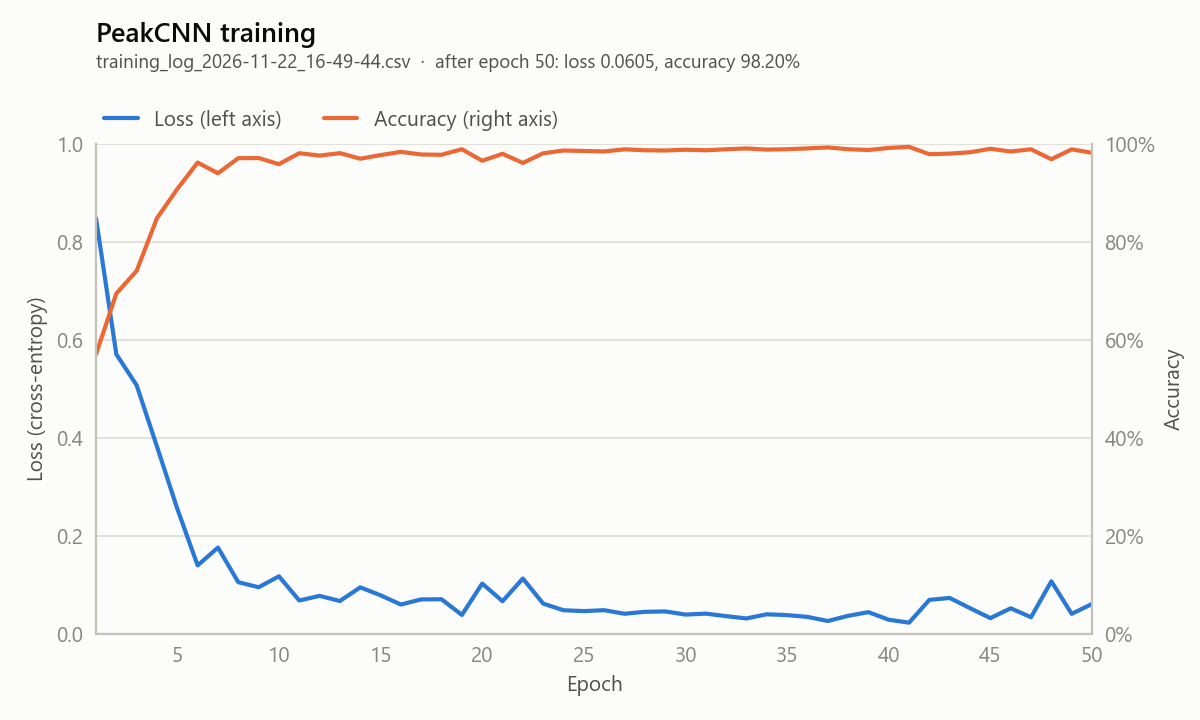
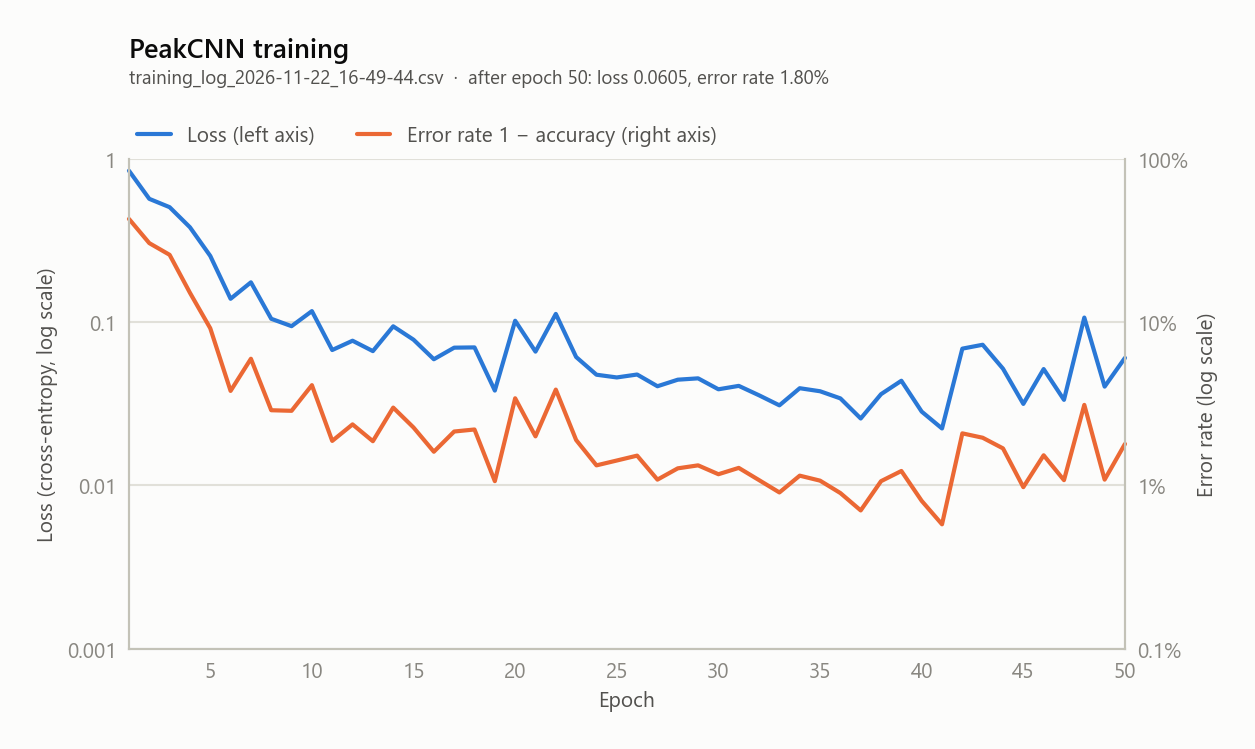
Plot loss and error rate on log scales
The training chart now shows ln(loss) and ln(1 - accuracy) as log-scale
axes with the original values as ticks. Epochs with 100% accuracy are
clamped to one error. Redraws the first run's chart in the new style.

Changed region(s): [[0.0, 0.1528, 0.9867, 0.9778], [0.0617, 0.0306, 0.6783, 0.1222], [0.0617, 0.1833, 0.0925, 0.2139]]

diff --git a/plot.py b/plot.py
@@ -1,5 +1,5 @@
 # Generated by Claude (Claude Code).
-"""Chart of a PeakCount training log: loss and accuracy per epoch in one chart.
+"""Chart of a PeakCount training log: loss and error rate (1 - accuracy) per epoch, on log scales.
 
 Used by train.py after training; not meant to be run on its own.
 """
@@ -8,8 +8,9 @@ import csv
 import math
 from pathlib import Path
 
+from matplotlib import rc_context
 from matplotlib.figure import Figure
-from matplotlib.ticker import MaxNLocator, PercentFormatter
+from matplotlib.ticker import FuncFormatter, LogLocator, MaxNLocator, NullFormatter
 
 SURFACE = "#fcfcfb"
 TEXT_PRIMARY = "#0b0b0b"
@@ -17,8 +18,8 @@ TEXT_SECONDARY = "#52514e"
 TEXT_MUTED = "#898781"
 GRIDLINE = "#e1e0d9"
 AXIS = "#c3c2b7"
-LOSS_COLOR = "#2a78d6"      # categorical slot 1 (blue)
-ACCURACY_COLOR = "#eb6834"  # categorical slot 2 (orange)
+LOSS_COLOR = "#2a78d6"   # categorical slot 1 (blue)
+ERROR_COLOR = "#eb6834"  # categorical slot 2 (orange)
 
 RC = {
     "font.family": ["Segoe UI", "DejaVu Sans"],
@@ -26,17 +27,31 @@ RC = {
 }
 
 
-def nice_axis_top(value: float) -> float:
-    """Smallest 'nice' top (1, 1.25, 2.5, 5 x 10^k) >= value, so that top / 5 is a clean tick step."""
-    scale = 10.0 ** math.floor(math.log10(value))
-    for factor in (1.0, 1.25, 2.5, 5.0, 10.0):
-        if factor * scale >= value:
-            return factor * scale
-    return 10.0 * scale
+def decade_range(values: list[float]) -> tuple[int, int]:
+    """Exponents (lo, hi) of the powers of 10 enclosing all values, at least one decade apart."""
+    lo = math.floor(math.log10(min(values)))
+    hi = math.ceil(math.log10(max(values)))
+    return lo, max(hi, lo + 1)
+
+
+def plain_decimal(value: float, _pos=None) -> str:
+    """Format a power of ten without exponent notation: 1, 0.1, 0.00001."""
+    decimals = max(0, -math.floor(math.log10(value) + 1e-9))
+    return f"{value:.{decimals}f}"
+
+
+def plain_percent(value: float, _pos=None) -> str:
+    """Format a fraction that is a power of ten as a percentage: 100%, 1%, 0.001%."""
+    return plain_decimal(100 * value) + "%"
 
 
 def plot_training_log(csv_path: Path) -> Path:
-    """Draw the training log at csv_path and save it as a PNG next to it; return the PNG path."""
+    """Draw the training log at csv_path and save it as a PNG next to it; return the PNG path.
+
+    Both y-axes are logarithmic and show the original values. An epoch with 100%
+    accuracy would have error rate 0 (ln 0 = -inf); its error rate is clamped to
+    1/n, the rate of a single mistake among that epoch's n functions.
+    """
     csv_path = Path(csv_path)
     with open(csv_path, newline="") as f:
         rows = list(csv.DictReader(f))
@@ -45,57 +60,73 @@ def plot_training_log(csv_path: Path) -> Path:
 
     epochs = [int(r["epoch"]) for r in rows]
     loss = [float(r["loss"]) for r in rows]
-    accuracy = [100 * float(r["accuracy"]) for r in rows]
+    seen = [int(r["functions_seen"]) for r in rows]
+    per_epoch = [s - prev for s, prev in zip(seen, [0] + seen[:-1])]
+    raw_error = [1.0 - float(r["accuracy"]) for r in rows]
+    error = [max(e, 1.0 / n) for e, n in zip(raw_error, per_epoch)]
+    clamped = sum(e < 1.0 / n for e, n in zip(raw_error, per_epoch))
     marker = "o" if len(rows) == 1 else None
 
-    from matplotlib import rc_context
+    # Give both axes the same number of decades, so their decade ticks share gridlines.
+    loss_lo, loss_hi = decade_range(loss)
+    err_lo, err_hi = decade_range(error)
+    decades = max(loss_hi - loss_lo, err_hi - err_lo)
+    loss_lo, err_lo = loss_hi - decades, err_hi - decades
 
     with rc_context(RC):
         fig = Figure(figsize=(8, 4.8), dpi=150, facecolor=SURFACE)
         ax_loss = fig.add_subplot()
-        ax_acc = ax_loss.twinx()
+        ax_err = ax_loss.twinx()
         ax_loss.set_facecolor(SURFACE)
 
-        (loss_line,) = ax_loss.plot(epochs, loss, color=LOSS_COLOR, linewidth=2,
-                                    solid_capstyle="round", solid_joinstyle="round",
-                                    marker=marker, label="Loss (left axis)")
-        (acc_line,) = ax_acc.plot(epochs, accuracy, color=ACCURACY_COLOR, linewidth=2,
-                                  solid_capstyle="round", solid_joinstyle="round",
-                                  marker=marker, label="Accuracy (right axis)")
+        # clip_on=False: values exactly on a power of ten at the axis edge stay fully visible.
+        line_style = dict(linewidth=2, solid_capstyle="round", solid_joinstyle="round",
+                          marker=marker, clip_on=False)
+        (loss_line,) = ax_loss.plot(epochs, loss, color=LOSS_COLOR,
+                                    label="Loss (left axis)", **line_style)
+        (err_line,) = ax_err.plot(epochs, error, color=ERROR_COLOR,
+                                  label="Error rate 1 − accuracy (right axis)", **line_style)
 
-        ax_loss.set_xlim(epochs[0] - 0.5 if len(epochs) == 1 else epochs[0],
-                         epochs[-1] + 0.5 if len(epochs) == 1 else epochs[-1])
-        ax_loss.xaxis.set_major_locator(MaxNLocator(integer=True))
-        # Both axes get 5 equal intervals, so the accuracy ticks sit on the loss gridlines.
-        loss_top = nice_axis_top(max(loss) * 1.02)
-        ax_loss.set_ylim(0, loss_top)
-        ax_loss.set_yticks([loss_top * i / 5 for i in range(6)])
-        ax_acc.set_ylim(0, 100)
-        ax_acc.set_yticks(range(0, 101, 20))
-        ax_acc.yaxis.set_major_formatter(PercentFormatter(decimals=0))
+        if len(epochs) == 1:
+            ax_loss.set_xlim(epochs[0] - 0.5, epochs[0] + 0.5)
+            ax_loss.set_xticks(epochs)
+        else:
+            ax_loss.set_xlim(epochs[0], epochs[-1])
+            ax_loss.xaxis.set_major_locator(MaxNLocator(integer=True))
+
+        for ax, lo, hi, fmt in (
+            (ax_loss, loss_lo, loss_hi, plain_decimal),
+            (ax_err, err_lo, err_hi, plain_percent),
+        ):
+            ax.set_yscale("log")
+            ax.set_ylim(10.0**lo, 10.0**hi)
+            ax.yaxis.set_major_locator(LogLocator(base=10, numticks=decades + 2))
+            ax.yaxis.set_major_formatter(FuncFormatter(fmt))
+            ax.yaxis.set_minor_formatter(NullFormatter())
 
         ax_loss.set_xlabel("Epoch", color=TEXT_SECONDARY)
-        ax_loss.set_ylabel("Loss (cross-entropy)", color=TEXT_SECONDARY)
-        ax_acc.set_ylabel("Accuracy", color=TEXT_SECONDARY)
+        ax_loss.set_ylabel("Loss (cross-entropy, log scale)", color=TEXT_SECONDARY)
+        ax_err.set_ylabel("Error rate (log scale)", color=TEXT_SECONDARY)
 
         # Gridlines from the loss axis only, so the two scales don't draw two grids.
-        ax_loss.grid(axis="y", color=GRIDLINE, linewidth=1)
+        ax_loss.grid(axis="y", which="major", color=GRIDLINE, linewidth=1)
         ax_loss.set_axisbelow(True)
 
-        for ax in (ax_loss, ax_acc):
+        for ax in (ax_loss, ax_err):
             ax.spines["top"].set_visible(False)
             for side in ("left", "right", "bottom"):
                 ax.spines[side].set_color(AXIS)
                 ax.spines[side].set_linewidth(1)
-            ax.tick_params(colors=AXIS, labelcolor=TEXT_MUTED, length=0, pad=6)
+            ax.tick_params(which="both", colors=AXIS, labelcolor=TEXT_MUTED, length=0, pad=6)
 
+        subtitle = (f"{csv_path.name}  ·  after epoch {epochs[-1]}: "
+                    f"loss {loss[-1]:.4f}, error rate {100 * raw_error[-1]:.2f}%")
+        if clamped:
+            subtitle += f"  ·  {clamped} epoch(s) at 100% accuracy shown as 1 error"
         fig.suptitle("PeakCNN training", x=0.08, y=0.97, ha="left",
                      fontsize=13, fontweight="semibold", color=TEXT_PRIMARY)
-        fig.text(0.08, 0.905,
-                 f"{csv_path.name}  ·  after epoch {epochs[-1]}: "
-                 f"loss {loss[-1]:.4f}, accuracy {accuracy[-1]:.2f}%",
-                 ha="left", fontsize=9, color=TEXT_SECONDARY)
-        legend = ax_loss.legend(handles=[loss_line, acc_line], loc="lower left",
+        fig.text(0.08, 0.905, subtitle, ha="left", fontsize=9, color=TEXT_SECONDARY)
+        legend = ax_loss.legend(handles=[loss_line, err_line], loc="lower left",
                                 bbox_to_anchor=(0, 1.01), ncol=2, frameon=False,
                                 borderaxespad=0, handlelength=1.6)
         for text in legend.get_texts():
@@ -103,5 +134,6 @@ def plot_training_log(csv_path: Path) -> Path:
 
         fig.subplots_adjust(left=0.08, right=0.91, top=0.8, bottom=0.12)
         png_path = csv_path.with_suffix(".png")
-        fig.savefig(png_path, facecolor=SURFACE)
+        # bbox_inches="tight" grows the margins if long tick labels would be cut off.
+        fig.savefig(png_path, facecolor=SURFACE, bbox_inches="tight", pad_inches=0.25)
     return png_path

diff --git a/README.md b/README.md
@@ -94,8 +94,13 @@ adding one row after every epoch so an interrupted run keeps its log:
 
 After the last epoch, [`plot.py`](plot.py) draws the log as a chart and saves it
 next to the CSV under the same name with `.png`. The chart shows loss (left
-axis) and accuracy (right axis, in %) per epoch in a single chart. Both axes
-have 5 equal intervals, so their ticks line up with the same gridlines.
+axis) and error rate `1 − accuracy` (right axis, in %) per epoch in a single
+chart. Both axes are logarithmic, so the curves are `ln(loss)` and
+`ln(1 − accuracy)`, while the ticks show the original values. Both axes span
+the same number of powers of ten, so their ticks line up with the same
+gridlines. An epoch with 100% accuracy would have `ln(0) = −∞`. Its error rate
+is therefore shown as one mistake (`1/n` for `n` functions in that epoch), and
+the subtitle notes it.
 `plot.py` is only called from `train.py` and does not run on its own.
 
 The logs and charts are committed to the repository.
